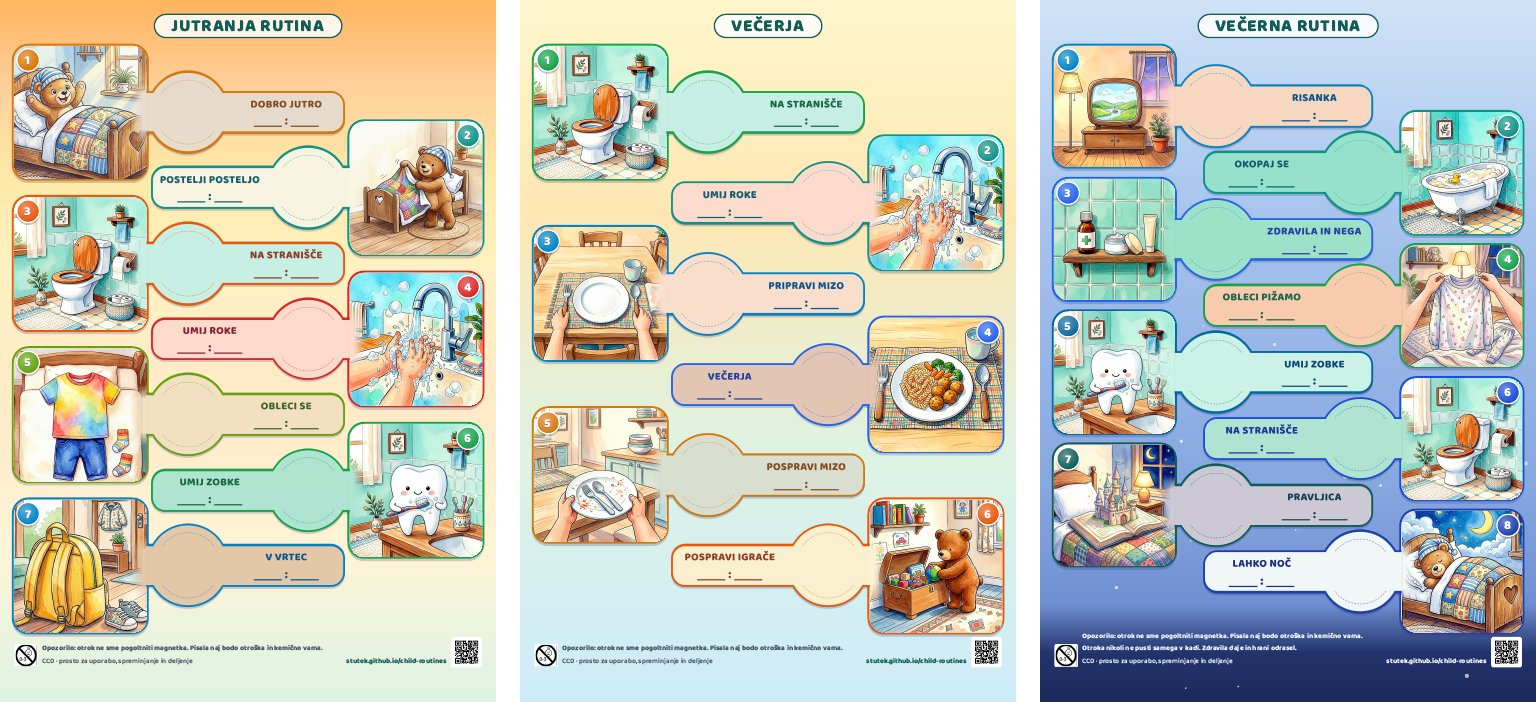
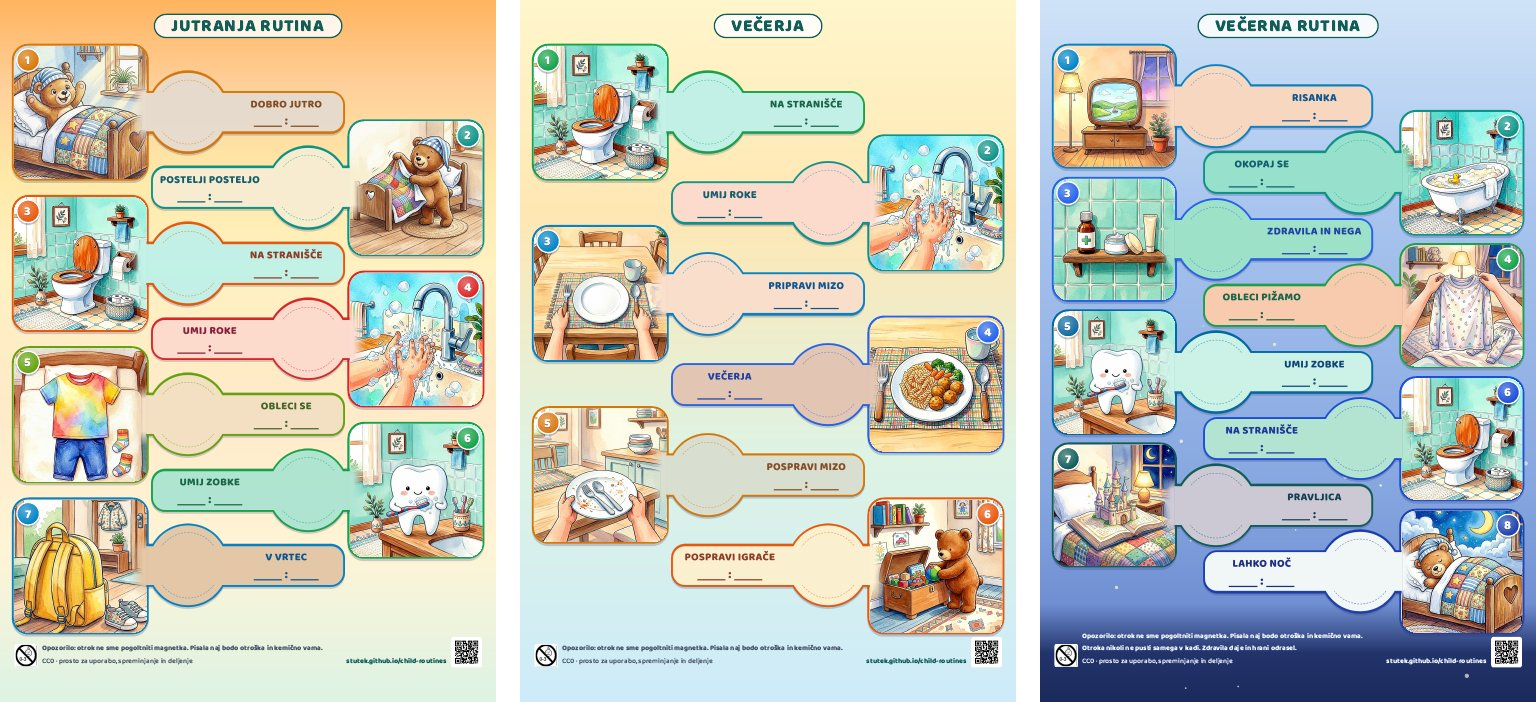
Pictures: toilet with tiles on both walls (like the bath), make-bed cropped (less empty wall, larger bear); PROMPTS: a fix to a shared room goes into every picture of it

diff --git a/output/en-example.html b/output/en-example.html
@@ -265,22 +265,22 @@
         </div>
         <div class="rt-check"></div>
       </div>
-      <div class="rt-pic pic-right" style="--step: #0284C7; --bg: #FAF6E4; --ink: #0F558F; --y: 68.143mm;">
+      <div class="rt-pic pic-right" style="--step: #0284C7; --bg: #F8EED1; --ink: #0F558F; --y: 68.143mm;">
         <img src="../images/make-bed.jpg" alt="Make the bed" />
         <div class="rt-num">2</div>
       </div>
-      <div class="rt-card card-right" style="--step: #0284C7; --bg: #FAF6E4; --ink: #0F558F; --y: 68.143mm;">
+      <div class="rt-card card-right" style="--step: #0284C7; --bg: #F8EED1; --ink: #0F558F; --y: 68.143mm;">
         <div class="rt-text">
           <div class="rt-label">MAKE THE BED</div>
           <div class="rt-time"><span class="blank"></span>:<span class="blank"></span></div>
         </div>
         <div class="rt-check"></div>
       </div>
-      <div class="rt-pic pic-left" style="--step: #EA580C; --bg: #C8F0E5; --ink: #8E3D28; --y: 96.286mm;">
+      <div class="rt-pic pic-left" style="--step: #EA580C; --bg: #C3F2E8; --ink: #8E3D28; --y: 96.286mm;">
         <img src="../images/toilet.jpg" alt="Use the toilet" />
         <div class="rt-num">3</div>
       </div>
-      <div class="rt-card card-left" style="--step: #EA580C; --bg: #C8F0E5; --ink: #8E3D28; --y: 96.286mm;">
+      <div class="rt-card card-left" style="--step: #EA580C; --bg: #C3F2E8; --ink: #8E3D28; --y: 96.286mm;">
         <div class="rt-text">
           <div class="rt-label">USE THE TOILET</div>
           <div class="rt-time"><span class="blank"></span>:<span class="blank"></span></div>
@@ -349,11 +349,11 @@
   <div class="page-a4 rt-page" style="background: linear-gradient(180deg, #FFF6CC 0%, #FFE7B3 30%, #DDF3E4 65%, #CDEBFA 100%);">
     <div class="rt-grid">
       <div class="rt-header"><div class="rt-title">DINNER</div></div>
-      <div class="rt-pic pic-left" style="--step: #16A34A; --bg: #C8F0E5; --ink: #1A664A; --y: 42.5mm;">
+      <div class="rt-pic pic-left" style="--step: #16A34A; --bg: #C3F2E8; --ink: #1A664A; --y: 42.5mm;">
         <img src="../images/toilet.jpg" alt="Use the toilet" />
         <div class="rt-num">1</div>
       </div>
-      <div class="rt-card card-left" style="--step: #16A34A; --bg: #C8F0E5; --ink: #1A664A; --y: 42.5mm;">
+      <div class="rt-card card-left" style="--step: #16A34A; --bg: #C3F2E8; --ink: #1A664A; --y: 42.5mm;">
         <div class="rt-text">
           <div class="rt-label">USE THE TOILET</div>
           <div class="rt-time"><span class="blank"></span>:<span class="blank"></span></div>
@@ -478,11 +478,11 @@
         </div>
         <div class="rt-check"></div>
       </div>
-      <div class="rt-pic pic-right" style="--step: #1D4ED8; --bg: #B1E6D3; --ink: #1D3799; --y: 180.714mm;">
+      <div class="rt-pic pic-right" style="--step: #1D4ED8; --bg: #B4E6D2; --ink: #1D3799; --y: 180.714mm;">
         <img src="../images/toilet.jpg" alt="Use the toilet" />
         <div class="rt-num">6</div>
       </div>
-      <div class="rt-card card-right" style="--step: #1D4ED8; --bg: #B1E6D3; --ink: #1D3799; --y: 180.714mm;">
+      <div class="rt-card card-right" style="--step: #1D4ED8; --bg: #B4E6D2; --ink: #1D3799; --y: 180.714mm;">
         <div class="rt-text">
           <div class="rt-label">USE THE TOILET</div>
           <div class="rt-time"><span class="blank"></span>:<span class="blank"></span></div>

diff --git a/output/sl-primer.html b/output/sl-primer.html
@@ -265,22 +265,22 @@
         </div>
         <div class="rt-check"></div>
       </div>
-      <div class="rt-pic pic-right" style="--step: #0D9488; --bg: #FAF6E4; --ink: #155E6D; --y: 74.5mm;">
+      <div class="rt-pic pic-right" style="--step: #0D9488; --bg: #F8EED1; --ink: #155E6D; --y: 74.5mm;">
         <img src="../images/make-bed.jpg" alt="Postelji posteljo" />
         <div class="rt-num">2</div>
       </div>
-      <div class="rt-card card-right" style="--step: #0D9488; --bg: #FAF6E4; --ink: #155E6D; --y: 74.5mm;">
+      <div class="rt-card card-right" style="--step: #0D9488; --bg: #F8EED1; --ink: #155E6D; --y: 74.5mm;">
         <div class="rt-text">
           <div class="rt-label">POSTELJI POSTELJO</div>
           <div class="rt-time"><span class="blank"></span>:<span class="blank"></span></div>
         </div>
         <div class="rt-check"></div>
       </div>
-      <div class="rt-pic pic-left" style="--step: #EA580C; --bg: #C8F0E5; --ink: #8E3D28; --y: 106.5mm;">
+      <div class="rt-pic pic-left" style="--step: #EA580C; --bg: #C3F2E8; --ink: #8E3D28; --y: 106.5mm;">
         <img src="../images/toilet.jpg" alt="Na stranišče" />
         <div class="rt-num">3</div>
       </div>
-      <div class="rt-card card-left" style="--step: #EA580C; --bg: #C8F0E5; --ink: #8E3D28; --y: 106.5mm;">
+      <div class="rt-card card-left" style="--step: #EA580C; --bg: #C3F2E8; --ink: #8E3D28; --y: 106.5mm;">
         <div class="rt-text">
           <div class="rt-label">NA STRANIŠČE</div>
           <div class="rt-time"><span class="blank"></span>:<span class="blank"></span></div>
@@ -338,11 +338,11 @@
   <div class="page-a4 rt-page" style="background: linear-gradient(180deg, #FFF6CC 0%, #FFE7B3 30%, #DDF3E4 65%, #CDEBFA 100%);">
     <div class="rt-grid">
       <div class="rt-header"><div class="rt-title">VEČERJA</div></div>
-      <div class="rt-pic pic-left" style="--step: #16A34A; --bg: #C8F0E5; --ink: #1A664A; --y: 42.5mm;">
+      <div class="rt-pic pic-left" style="--step: #16A34A; --bg: #C3F2E8; --ink: #1A664A; --y: 42.5mm;">
         <img src="../images/toilet.jpg" alt="Na stranišče" />
         <div class="rt-num">1</div>
       </div>
-      <div class="rt-card card-left" style="--step: #16A34A; --bg: #C8F0E5; --ink: #1A664A; --y: 42.5mm;">
+      <div class="rt-card card-left" style="--step: #16A34A; --bg: #C3F2E8; --ink: #1A664A; --y: 42.5mm;">
         <div class="rt-text">
           <div class="rt-label">NA STRANIŠČE</div>
           <div class="rt-time"><span class="blank"></span>:<span class="blank"></span></div>
@@ -467,11 +467,11 @@
         </div>
         <div class="rt-check"></div>
       </div>
-      <div class="rt-pic pic-right" style="--step: #1D4ED8; --bg: #B1E6D3; --ink: #1D3799; --y: 180.714mm;">
+      <div class="rt-pic pic-right" style="--step: #1D4ED8; --bg: #B4E6D2; --ink: #1D3799; --y: 180.714mm;">
         <img src="../images/toilet.jpg" alt="Na stranišče" />
         <div class="rt-num">6</div>
       </div>
-      <div class="rt-card card-right" style="--step: #1D4ED8; --bg: #B1E6D3; --ink: #1D3799; --y: 180.714mm;">
+      <div class="rt-card card-right" style="--step: #1D4ED8; --bg: #B4E6D2; --ink: #1D3799; --y: 180.714mm;">
         <div class="rt-text">
           <div class="rt-label">NA STRANIŠČE</div>
           <div class="rt-time"><span class="blank"></span>:<span class="blank"></span></div>

diff --git a/web/data.js b/web/data.js
@@ -755,12 +755,12 @@ window.SHEET_EDGES = {
   "getting-dressed": ["#F4E0C3", "#FAF1DA"],
   "good-morning": ["#E7DCCE", "#F2F3F5"],
   "kindergarten": ["#E4C8A8", "#D2D3B1"],
-  "make-bed": ["#ECD4B8", "#FAF6E4"],
+  "make-bed": ["#EBD5BB", "#F8EED1"],
   "pajamas": ["#FCD1BB", "#FACCAF"],
   "set-table": ["#FBDFCD", "#FFD692"],
   "sleep": ["#D1CDCA", "#F3F8F8"],
   "story": ["#CECBD6", "#D8DFEE"],
   "tidy-toys": ["#F5DBBB", "#FCF1D0"],
-  "toilet": ["#C8F0E5", "#B1E6D3"],
+  "toilet": ["#C3F2E8", "#B4E6D2"],
   "wash-hands": ["#E1E4CE", "#FDDBCE"],
 };

diff --git a/docs/PROMPTS.md b/docs/PROMPTS.md
@@ -21,7 +21,7 @@ Every routine image is a square 1:1 illustration generated with an image model. 
 - **Keep steps distinct.** "Clear the table" must not show a sink with a tap, because "wash hands" already does. Only the sleep image has closed eyes; waking up has eyes wide open.
 - **No disembodied hands.** Hands appear only in a child's-eye view, entering from the bottom edge (set the table, clear the table, pajamas). Otherwise the teddy bear does the action (make the bed, tidy up toys).
 - **Cloth obeys gravity.** Clothes, quilts and towels hang, drape and fold; they never stand stiff like a board. Do not show the child already wearing what it is putting on.
-- **Same world.** Bath and teeth happen in the same bathroom as the toilet image; the same teddy bear appears in waking up, making the bed, tidying up and sleeping. It wears its striped nightcap only around sleep (good morning, make the bed, sleep); in other scenes it has no cap.
+- **Same world.** Bath and teeth happen in the same bathroom as the toilet image; the same teddy bear appears in waking up, making the bed, tidying up and sleeping. It wears its striped nightcap only around sleep (good morning, make the bed, sleep); in other scenes it has no cap. A fix to the shared room (tiles on both walls) goes into every picture of that room: compare them side by side.
 - **Model good habits.** Images show safe, healthy behavior, never a bad example: a seat stays well back from a screen, never close to it.
 - **No false promises.** Do not show food the child will not get (pancakes for breakfast at home when breakfast is at kindergarten).
 - **Check before use:** contrast (see AGENTS.md), and the copyright check on the raw and the final file (`.agents/skills/copyright-check/`).

diff --git a/docs/PROMPTS.sl.md b/docs/PROMPTS.sl.md
@@ -21,7 +21,7 @@ Vsaka slika rutine je kvadratna ilustracija 1 : 1, ustvarjena z modelom za slike
 - **Koraki naj se ločijo.** »Pospravi mizo« ne sme kazati korita s pipo, ker to že kaže »umij roke«. Zaprte oči ima le slika spanja; ob prebujanju so oči široko odprte.
 - **Brez rok brez telesa.** Roke so le v pogledu z otrokovimi očmi, ko pridejo od spodnjega roba (pripravi mizo, pospravi mizo, pižama). Sicer dejanje opravi medvedek (pospravi posteljo, pospravi igrače).
 - **Blago se podreja teži.** Oblačila, odeje in brisače visijo, se gubijo in polegajo; nikoli ne stojijo toge kot deska. Otrok ne nosi že tega, kar si oblači.
-- **Isti svet.** Kopanje in zobki so v isti kopalnici kot stranišče; isti medvedek se zbuja, pospravlja posteljo, pospravlja igrače in spi. Progasto čepico nosi le ob spanju (dobro jutro, pospravi posteljo, spanje); drugod je brez nje.
+- **Isti svet.** Kopanje in zobki so v isti kopalnici kot stranišče; isti medvedek se zbuja, pospravlja posteljo, pospravlja igrače in spi. Progasto čepico nosi le ob spanju (dobro jutro, pospravi posteljo, spanje); drugod je brez nje. Popravek skupnega prostora (ploščice na obeh stenah) gre v vse slike tega prostora: primerjaj jih drugo ob drugi.
 - **Pokaži dobre navade.** Slike kažejo varno, zdravo vedenje, nikoli slabega zgleda: sedež je daleč od zaslona, nikoli tik ob njem.
 - **Brez lažnih obljub.** Ne kaži hrane, ki je otrok ne bo dobil (palačinke za zajtrk doma, ko je zajtrk v vrtcu).
 - **Pred uporabo preveri** kontrast (glej AGENTS.sl.md) in avtorstvo na surovi in končni datoteki (`.agents/skills/copyright-check/`).
